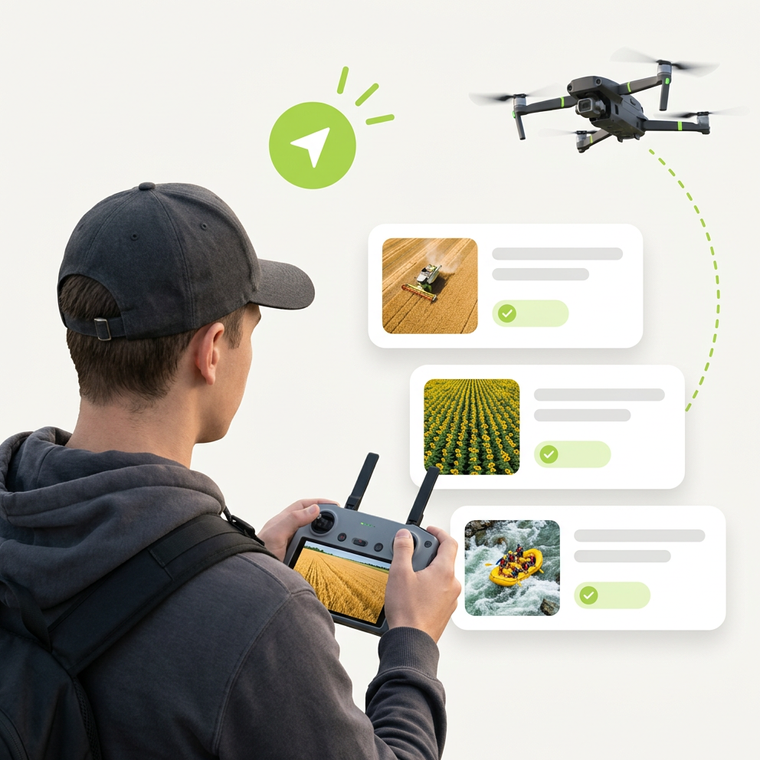
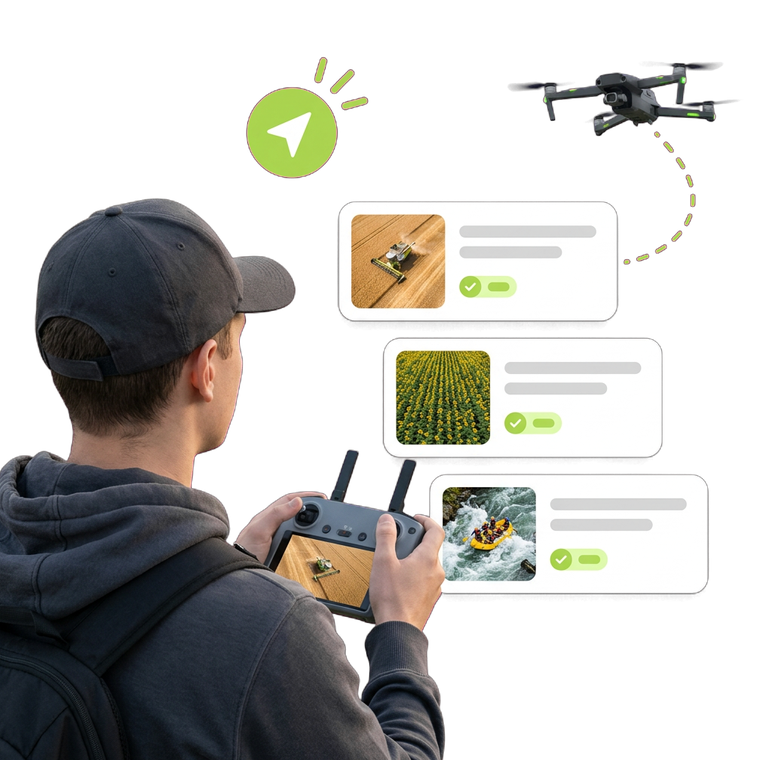
Desktop onboarding: scenes cut out so the window's glass is their ground in both themes (dispatch redrawn on a magenta key), window content centred in its height

diff --git a/wireframes/desktop/_desktop.css b/wireframes/desktop/_desktop.css
@@ -690,14 +690,44 @@
 }
 
 /* «ці картинки для світлої і темної теми нагенеруй на фоні бекграундів як на картці
-   вікна» (2026-10-18): the onboarding scenes are drawn again on the window's own ground -
-   #F9F8F6 light, #2A2A2A dark (Figma, DRON card art) - so no square shows. Desktop copies; the phone keeps its files. */
+   вікна» (2026-10-18), then «видно краї»: the scenes go onto the window with no ground of
+   their own, so the glass is their background in either theme. Dispatch is drawn again in
+   Figma (DRON card art) on a magenta key and cut out, light and dark; the five other dark
+   scenes have their flat #1A1A1A ground keyed out (their light files were already cut
+   out). Desktop copies; the phone keeps its files. */
 :root, [data-theme="light"]{
   --dk-onb-dispatch: url("../../assets/scenes/desktop/onboarding-dispatch.png");
 }
 [data-theme="dark"]{
   --dk-onb-dispatch: url("../../assets/scenes/desktop/onboarding-dispatch-dark.png");
+  --dk-onb-checklist: url("../../assets/scenes/desktop/onboarding-checklist-dark.png");
+  --dk-onb-payout: url("../../assets/scenes/desktop/onboarding-payout-dark.png");
+  --dk-onb-verified-operator: url("../../assets/scenes/desktop/onboarding-verified-operator-dark.png");
+  --dk-onb-live-tracking: url("../../assets/scenes/desktop/onboarding-live-tracking-dark.png");
+  --dk-onb-report: url("../../assets/scenes/desktop/onboarding-report-dark.png");
 }
 .dk.dk img[src*="onboarding-dispatch."]{
   content: var(--dk-onb-dispatch);
+}
+[data-theme="dark"] .dk.dk img[src*="onboarding-checklist."]{
+  content: var(--dk-onb-checklist);
+}
+[data-theme="dark"] .dk.dk img[src*="onboarding-payout."]{
+  content: var(--dk-onb-payout);
+}
+[data-theme="dark"] .dk.dk img[src*="onboarding-verified-operator."]{
+  content: var(--dk-onb-verified-operator);
+}
+[data-theme="dark"] .dk.dk img[src*="onboarding-live-tracking."]{
+  content: var(--dk-onb-live-tracking);
+}
+[data-theme="dark"] .dk.dk img[src*="onboarding-report."]{
+  content: var(--dk-onb-report);
+}
+
+/* «зроби контент по центру а то зверху дуже малий відступ а знизу великий»: a window is
+   one height (640), so its content sits in the middle of it; `safe` keeps a tall
+   window's top in view when it scrolls */
+.dk.dk .dk-window.dk-window{
+  justify-content: safe center;
 }
